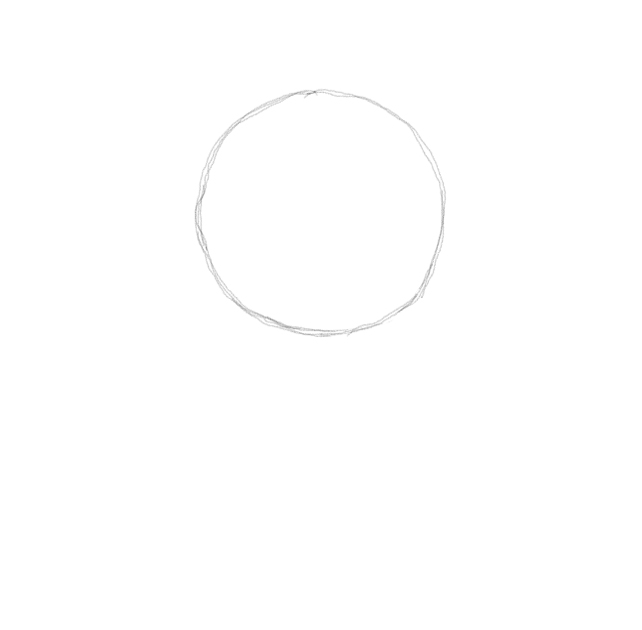
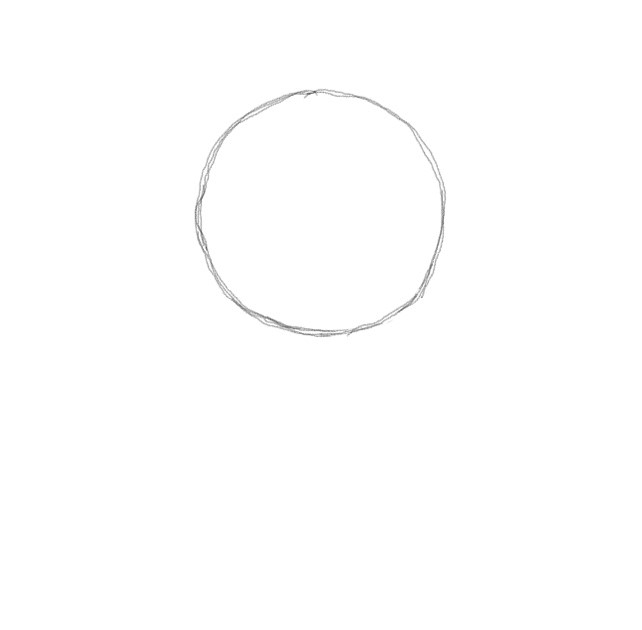
Darkened images

diff --git a/web/your-cats/index.html b/web/your-cats/index.html
@@ -67,7 +67,7 @@ p.submit {
 </h1>
 
 <p class="submit">
-send your cat
+send your cat to:
 <br>
 <br>
 <b>cats@jordyboothy.com</b>
